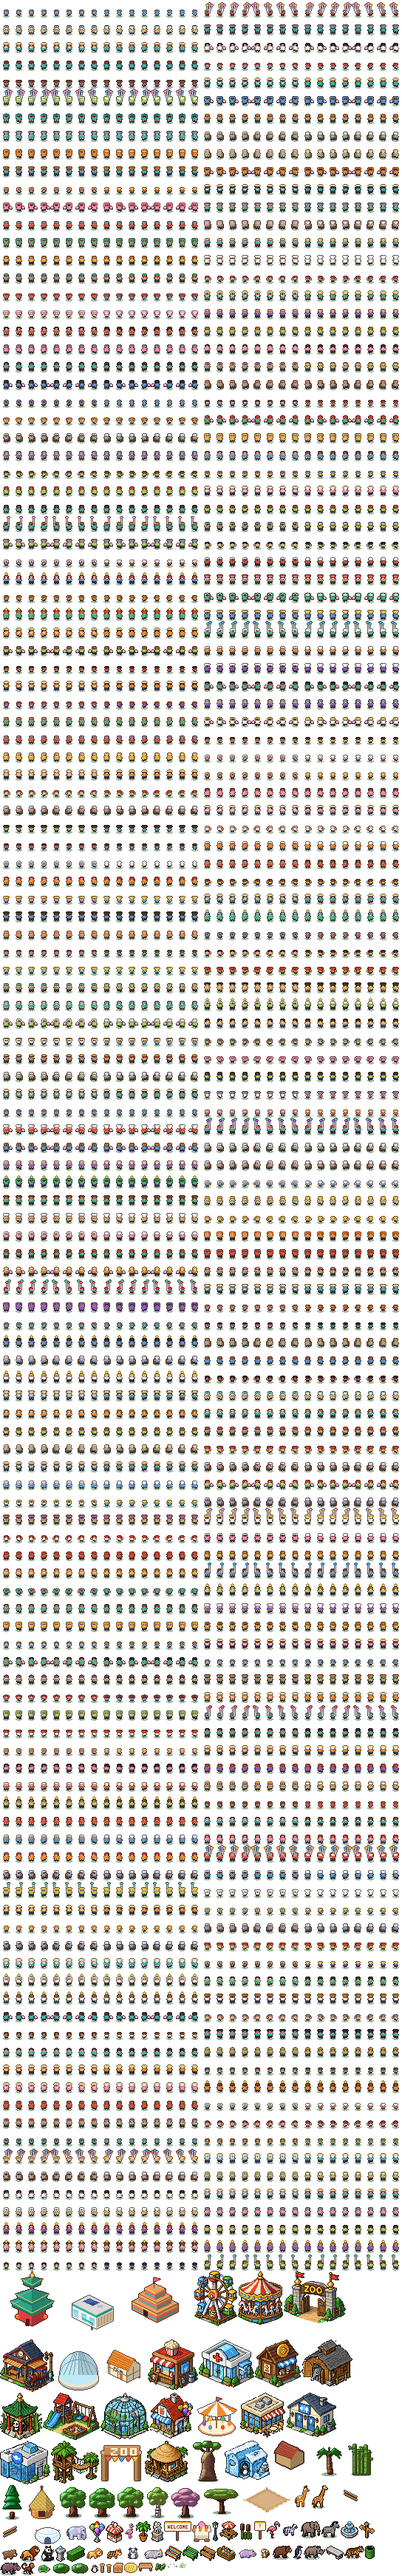
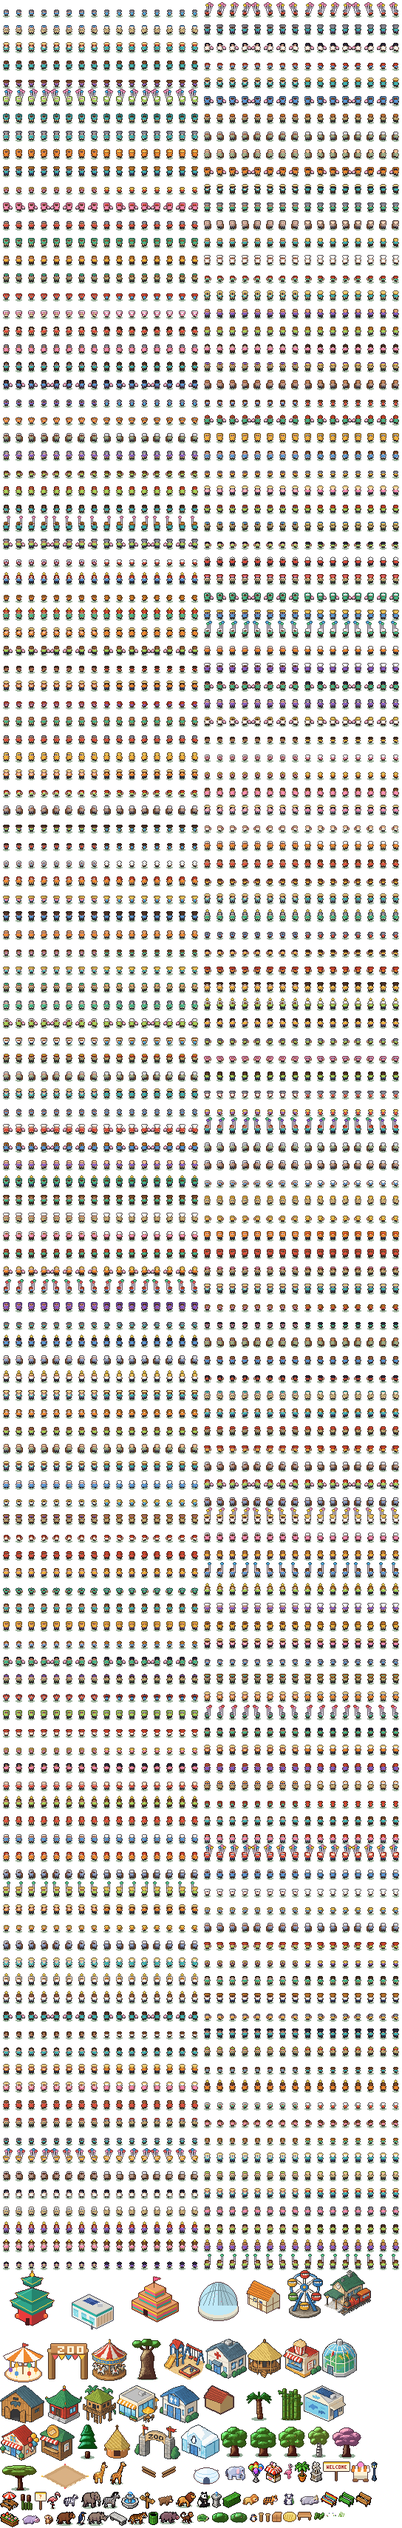
Budovy z PixelLabu v chunky hustotě (shodné s našimi sprity), nové ruské kolo, dokumentace

diff --git a/art/proto/half_test.py b/art/proto/half_test.py
@@ -1,0 +1,40 @@
+import json, os
+from PIL import Image
+import numpy as np
+ROOT=os.path.join(os.path.dirname(os.path.abspath(__file__)),'..','..')
+meta=json.load(open(f'{ROOT}/web/public/assets/props.json')); atlas=Image.open(f'{ROOT}/web/public/assets/atlas.png').convert('RGBA')
+def get(n):
+    m=meta[n]; return atlas.crop((m['x'],m['y'],m['x']+m['w'],m['y']+m['h']))
+def half(im):
+    a=np.array(im); h,w=a.shape[:2]; H,W=(h+1)//2,(w+1)//2
+    out=np.zeros((H,W,4),np.uint8)
+    for y in range(H):
+        for x in range(W):
+            blk=a[y*2:y*2+2,x*2:x*2+2].reshape(-1,4); blk=blk[blk[:,3]>0]
+            if len(blk)<2: continue
+            lum=blk[:,:3].astype(int).sum(1)
+            dark=blk[lum<190]
+            if len(dark)*2>=len(blk): c=dark[np.argmin(dark[:,:3].astype(int).sum(1))]
+            else:
+                q=(blk[:,:3]//24); keys,inv,cnt=np.unique(q,axis=0,return_inverse=True,return_counts=True)
+                k=np.argmax(cnt); c=blk[np.where(inv.ravel()==k)[0][0]]
+            out[y,x]=(*c[:3],255)
+    return Image.fromarray(out)
+if __name__=='__main__':
+    import sys
+    import visitors, zoo_art as za
+    za.load_style('C_hybrid')
+    person=visitors.visitor(visitors.new_spec(11),'SE',0)
+    mine=[get(n) for n in ['b_classic','b_modern','b_african','b_asian']]
+    full=[get(n) for n in ['bp_cafe','bp_shop','bp_lodge','bp_pagoda','bp_carousel']]
+    halves=[half(i) for i in full]
+    def strip(ims):
+        W=sum(i.width+6 for i in ims)+6; H=max(i.height for i in ims)+10
+        s=Image.new('RGBA',(W,H),(104,189,72,255)); x=6
+        for i in ims: s.alpha_composite(i,(x,H-i.height-5)); x+=i.width+6
+        return s
+    rows=[strip([person]+mine),strip([person]+full),strip([person]+halves)]
+    W=max(r.width for r in rows); H=sum(r.height for r in rows)
+    sh=Image.new('RGBA',(W,H),(104,189,72,255)); y=0
+    for r in rows: sh.alpha_composite(r,(0,y)); y+=r.height
+    sh.resize((sh.width*4,sh.height*4),Image.NEAREST).save(sys.argv[1]); print(sh.size)

diff --git a/art/proto/slice_pixellab.py b/art/proto/slice_pixellab.py
@@ -47,7 +47,9 @@ B1 = ['lodge', 'barn', 'pagoda', 'penguin_house', 'treehouse', 'aquarium', 'cafe
 B2 = ['carousel', 'ferris', 'station', 'playground', 'toilets', 'clinic', 'ticket', 'gate', 'popcorn']
 
 if __name__ == '__main__':
-    print('budovy:', slice_sheet('buildings_sheet_1.png', B1, 3, prefix='bp_', grow=2), slice_sheet('buildings_sheet_2.png', B2, 3, prefix='bp_', grow=2))
+    print('budovy:', slice_sheet('buildings_sheet_3_chunky.png', B1, 3, prefix='bp_', grow=2), slice_sheet('buildings_sheet_4_chunky.png', B2, 3, prefix='bp_', grow=2))
     n1 = slice_sheet('animals_sheet_small_1.png', ANIMALS, 3, shadow=True, prefix='a_')
     n2 = slice_sheet('decor_sheet_small_1.png', DECOR, 4, prefix='d_', grow=1)
     print('sprity:', n1, n2)
+    # kolo z jednotlivého generování nahradí rozbité z sheetu 4
+    im = Image.open(os.path.join(SRC, 'ferris_chunky.png')).convert('RGBA'); im.crop(im.getbbox()).save(os.path.join(OUT, 'bp_ferris.png'))

diff --git a/docs/ART.md b/docs/ART.md
@@ -76,6 +76,15 @@ Stylové kotvy (nahrávají se jako `style_image`, v nativním rozlišení): `ar
 Sprity v mapě: `a_<zvíře>` (PixelLab, stín přebarven na poloprůhledný), `d_<dekorace>`; moje původní zvířata zůstávají jako `old_a_*`.
 Další sheety dělat stejně (jeden sheet, kotva stylu, před odesláním zkontrolovat ledger).
 
+## Hustota pixelů (oprava 17. 11. 2026): „chunky“ budovy
+
+První sheety staveb z PixelLabu (`buildings_sheet_1/2`, 256²) měly zhruba **2× jemnější pixelovou hustotu** než moje sprity a návštěvníci (okna 1–2 px, textury střech, drobné detaily), takže na mapě nesedělo měřítko.
+Zmenšení na půlku nepomohlo (rozmazané). Správný postup: **generovat v menším plátně a s kotvou z našich chunky spritů**:
+`buildings_sheet_3_chunky` (192², 6 gen), `buildings_sheet_4_chunky` (192², 6 gen) a samostatné ruské kolo `ferris_chunky` (64×80, 5 gen, kolo ze sheetu bylo rozpadlé).
+Prompt: „chunky low-detail, early 1990s city builder, thick outline, windows 3–4 px, no tiny textures“ + kotva `anchor_buildings_chunky.png`; kotva MUSÍ být menší než plátno (jinak ji PixelLab odmítne bez účtování).
+Původní detailní sprity zůstaly v `art/pixellab/sprites_detailed/` (vhodné pro karty a close-upy). Srovnání: `styles/density_mine_vs_pixellab.png` (nahoře moje, uprostřed detailní, dole chunky).
+**Celkem 56 generací** (zůstatek viz `tools/pixellab.py balance`). Pravidlo pro další generování: nejdřív ověřit, kolik pixelů má okno a dveře vs. návštěvník (10 px), a velikost plátna volit podle toho.
+
 Plán:
 - **Kulisy, zvířata, budovy, terén:** vlastní generace (kód) nebo PixelLab (`create_object_pro_flash`, izometrie) – podle toho, co vypadá lépe; vždy s paletou výše.
 - **Návštěvníci (stovky variant, chůze 4–8 směrů):** PixelLab `create_character` + animace (postup z fronty: `tools/pixellab.py`, ledger proti duplikátům, `sprite_qa.py`). Generace jsou omezené, proto jednou správně.
